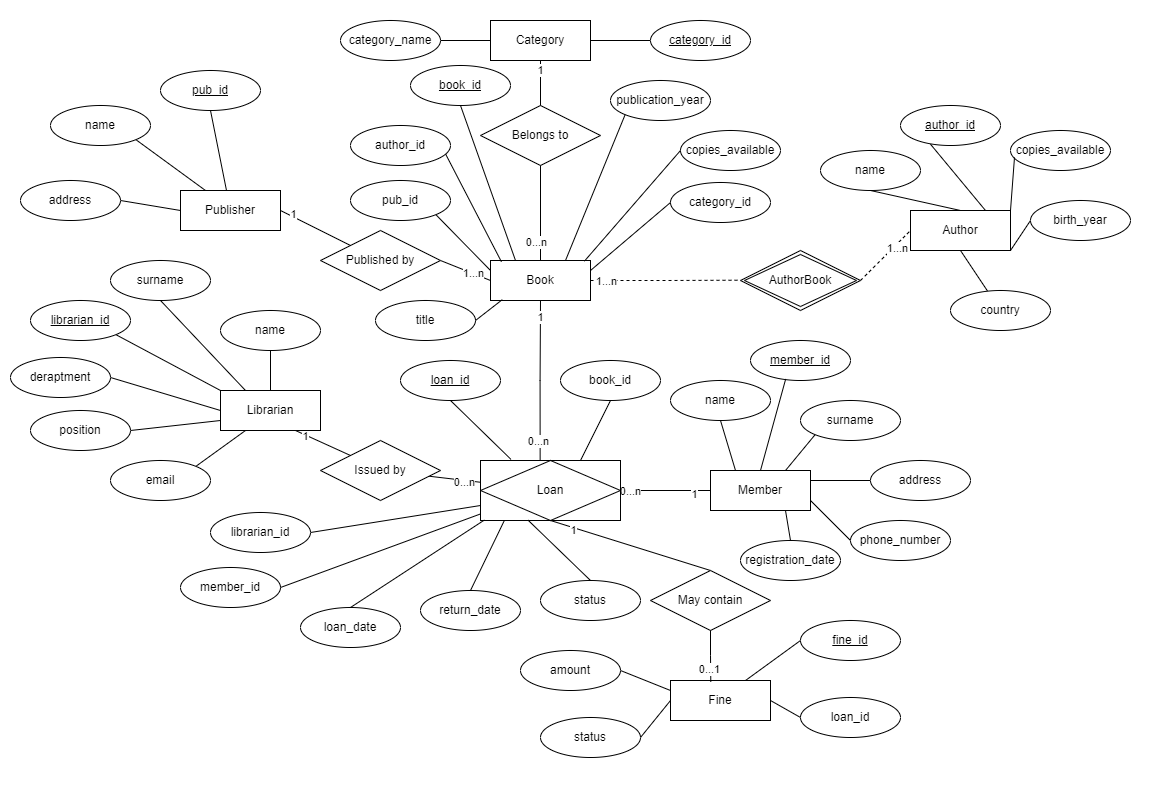
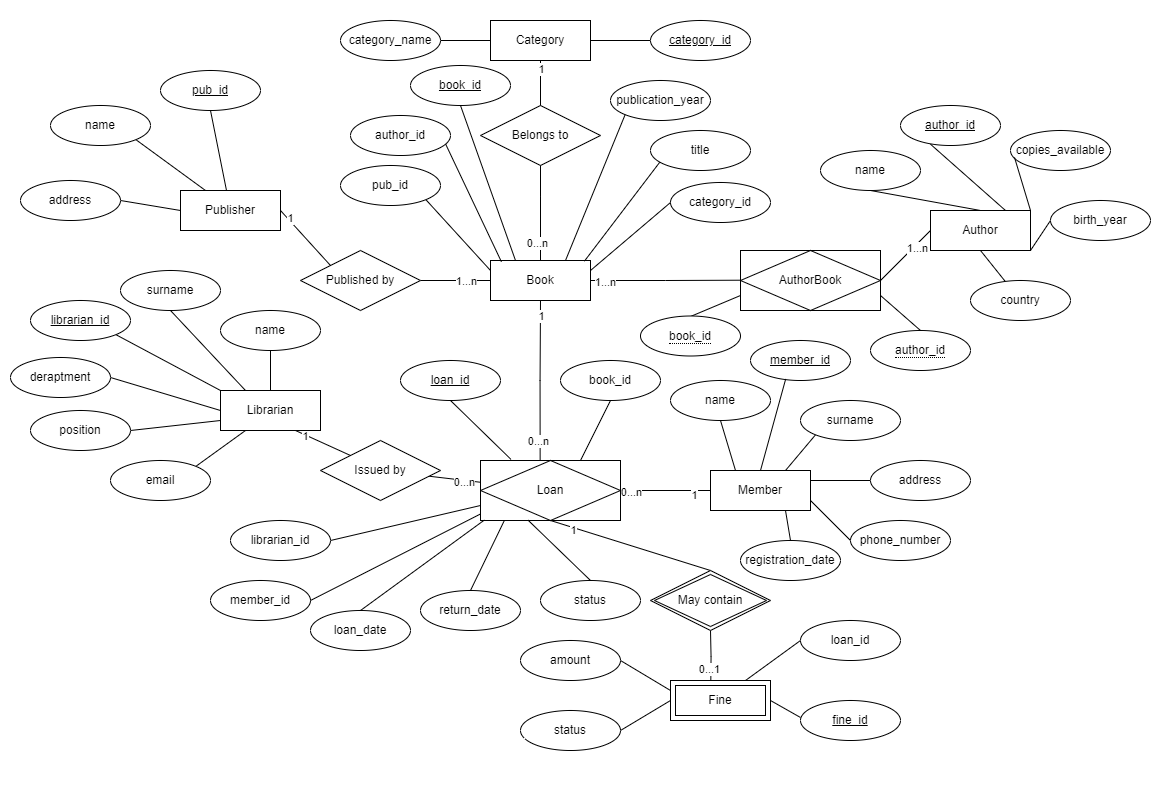
Version 2.0

diff --git a/Lab1/lab1.js b/Lab1/lab1.js
@@ -23,11 +23,10 @@ class Publisher {
 }
 
 class Book {
-  constructor(title, publicationYear, copiesAvailable, categoryId, pubId) {
+  constructor(title, publicationYear, categoryId, pubId) {
     this.bookId = idForBook++;
     this.title = title;
     this.publicationYear = publicationYear;
-    this.copiesAvailable = copiesAvailable;
     this.categoryId = categoryId;
     this.pubId = pubId;
     this.authorBooks = [];
@@ -37,10 +36,6 @@ class Book {
     const authorBook = new AuthorBook(authorId, this.bookId);
     this.authorBooks.push(authorBook);
     return authorBook;
-  }
-
-  updateCopies(quantity) {
-    this.copiesAvailable += quantity;
   }
 }
 
@@ -134,7 +129,6 @@ const publisher = new Publisher("BookHouse", "123 Main St");
 const book = new Book(
   "The Great Novel",
   2020,
-  5,
   category.categoryId,
   publisher.pubId
 );
